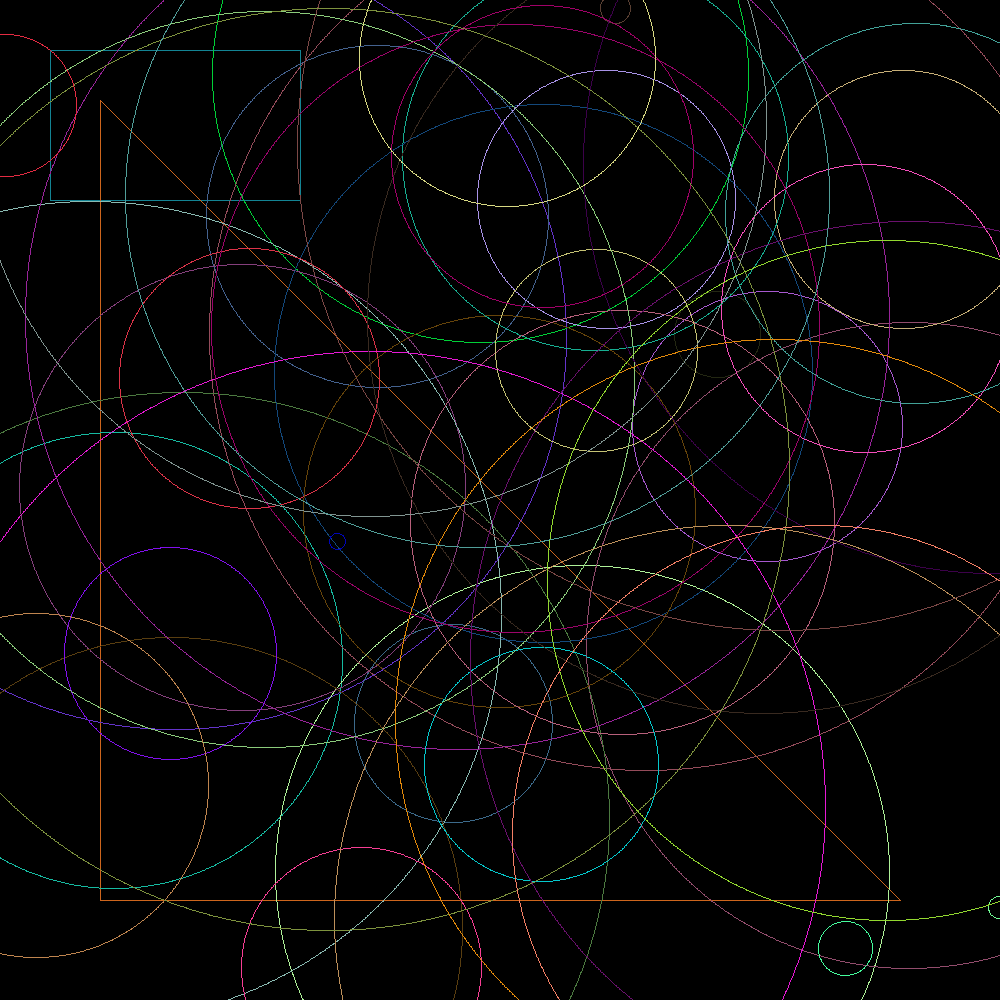
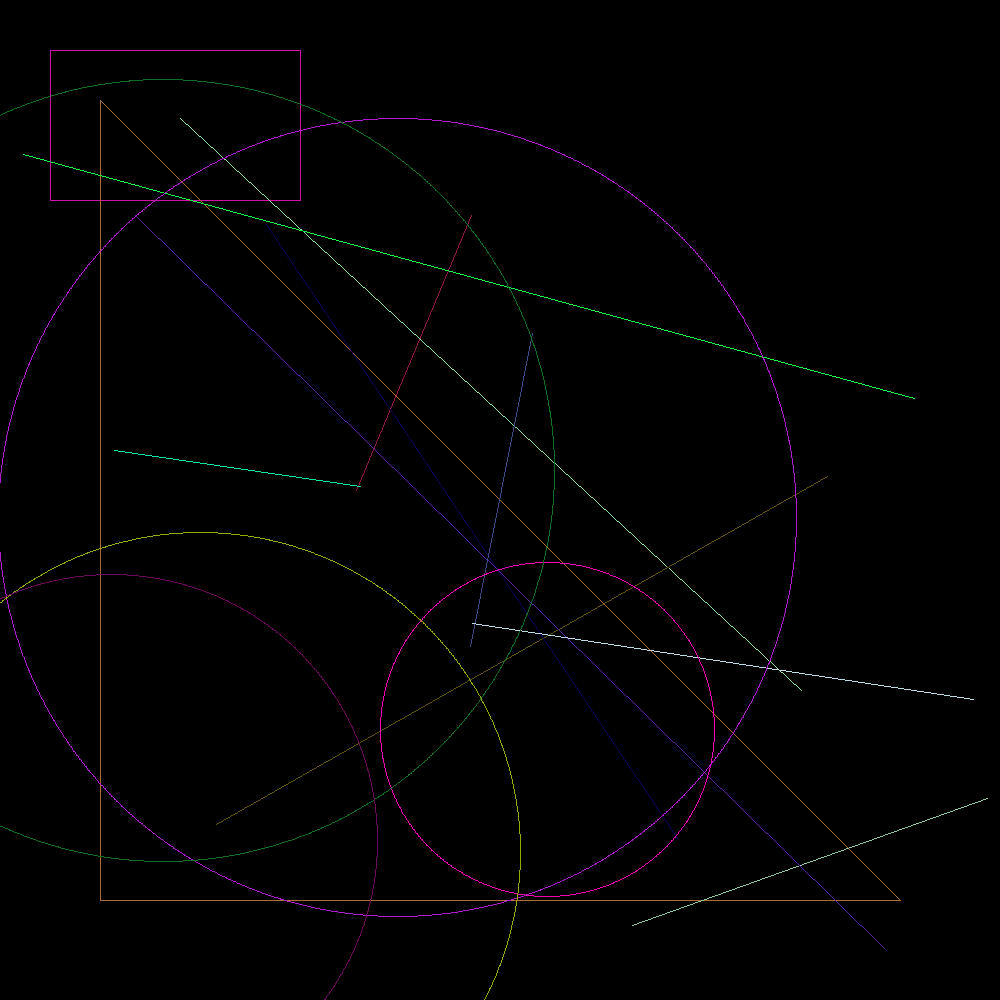
lines in main

diff --git a/Main.java b/Main.java
@@ -9,6 +9,11 @@ public class Main {
         Triangle triangle = new Triangle(new Point(100, 100), new Point(900, 900), new Point(100, 900));
         triangle.draw(image);
 
+        for (int i = 0; i < 10; i++) {
+            Line l = Line.random(image.getWidth(), image.getHeight());
+            l.draw(image);
+        }
+
         for (int i = 0; i < 50; i++) {
             Circle circle = Circle.random(image.getWidth(), image.getHeight());
             circle.draw(image);
